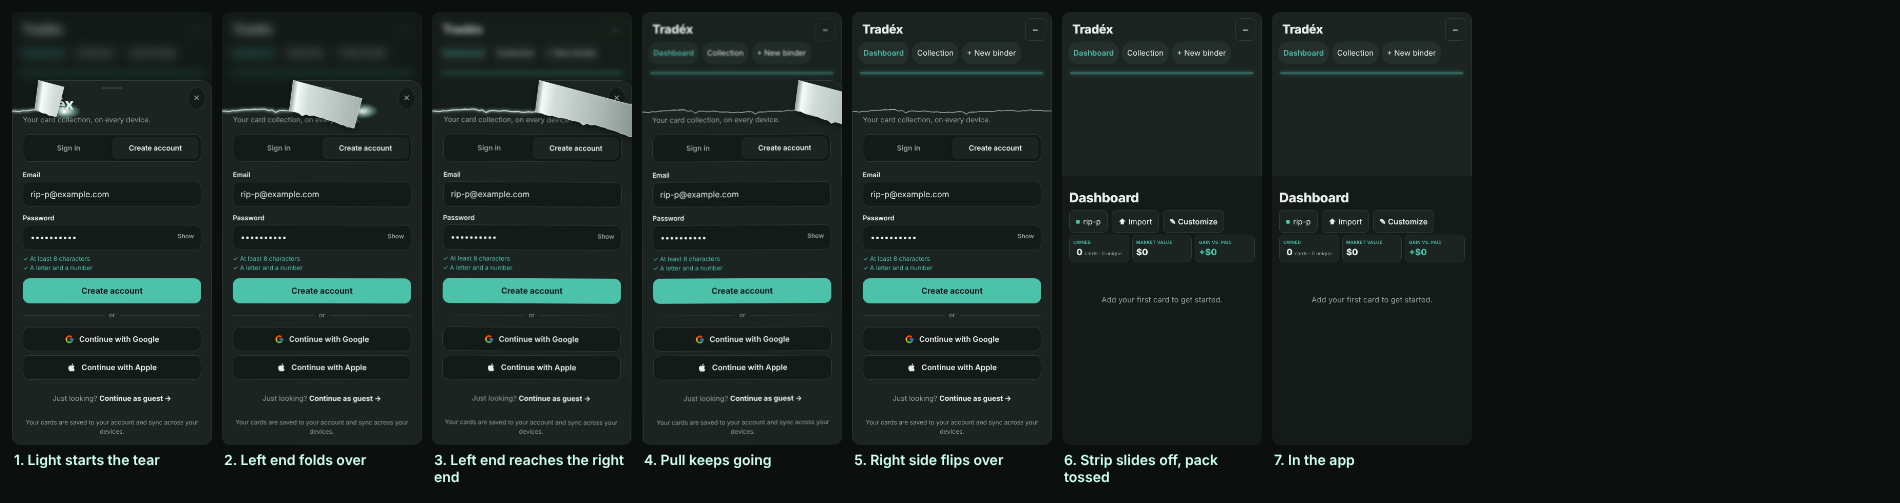
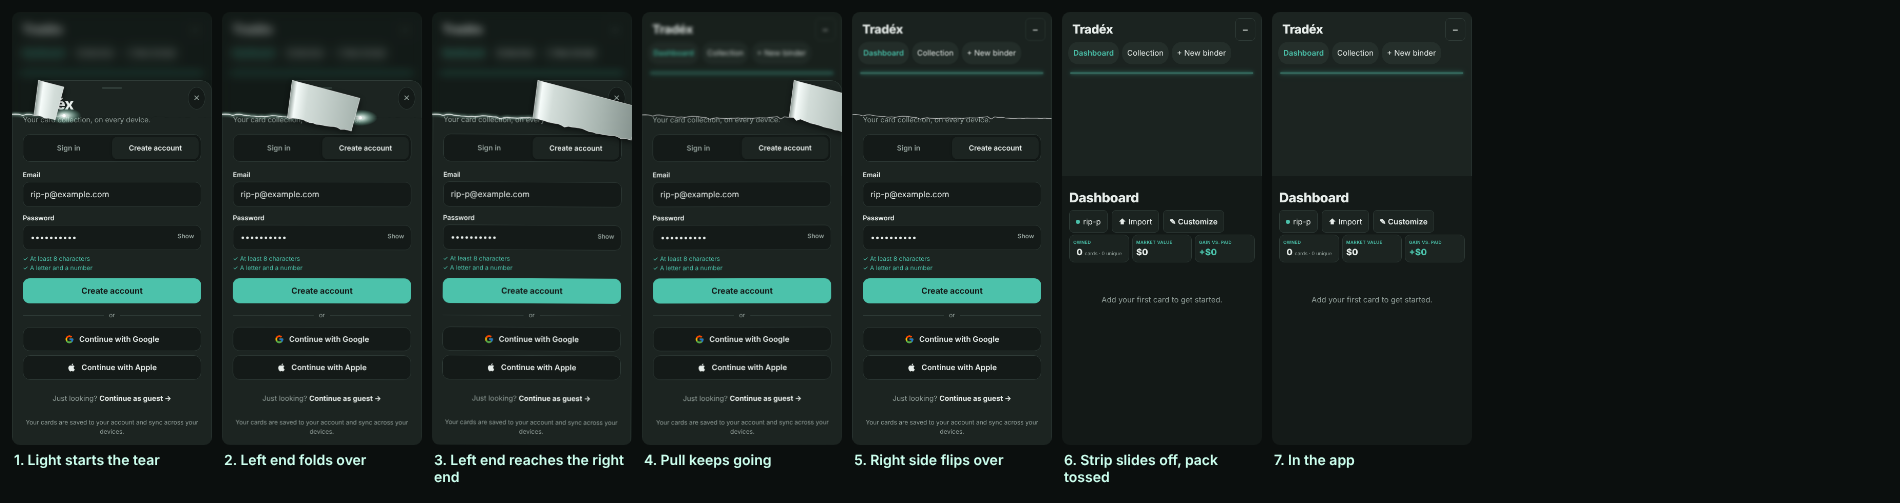
Speed up the rip slightly (about 12%)
Claude-Session: https://claude.ai/code/session_01K6ofJxh6QarDQ2gKnJ83gJ

diff --git a/js/account.js b/js/account.js
@@ -249,7 +249,7 @@ function lift(rip){const g=$('#txa');if(!g||g.classList.contains('clear'))return
   v.style.cssText=`position:absolute;left:0;top:0;width:100%;height:${cut+12}px;pointer-events:none;overflow:visible`;
   v.innerHTML=`<polyline points="${pts.map(([x,y])=>x+','+y).join(' ')}" fill="none" stroke="rgba(255,255,255,.6)" stroke-width="1.6" vector-effect="non-scaling-stroke" stroke-linejoin="bevel"/>`;return v};
  const at=x=>{for(let i=1;i<pts.length;i++)if(pts[i][0]>=x){const[a,b]=[pts[i-1],pts[i]];return b[0]===a[0]?b[1]:a[1]+(b[1]-a[1])*(x-a[0])/(b[0]-a[0])}return pts[pts.length-1][1]};
- const wrap=document.createElement('div'),SW=1300,W=r.width,PX=pts.map(([x,y])=>[x/100*W,y]);wrap.setAttribute('aria-hidden','true');
+ const wrap=document.createElement('div'),SW=1150,W=r.width,PX=pts.map(([x,y])=>[x/100*W,y]);wrap.setAttribute('aria-hidden','true');
  Object.assign(wrap.style,{position:'fixed',left:r.left+'px',top:r.top+'px',width:W+'px',height:r.height+'px',pointerEvents:'none',zIndex:1,overflow:'visible',transformOrigin:`100% ${cut}px`});
  // The torn-off title strip stays one piece: the part not yet folded is the card itself, and the part folded over
  // is its mirror image across a slanted crease, drawn as the silver inside of the foil draping down over the right side.
